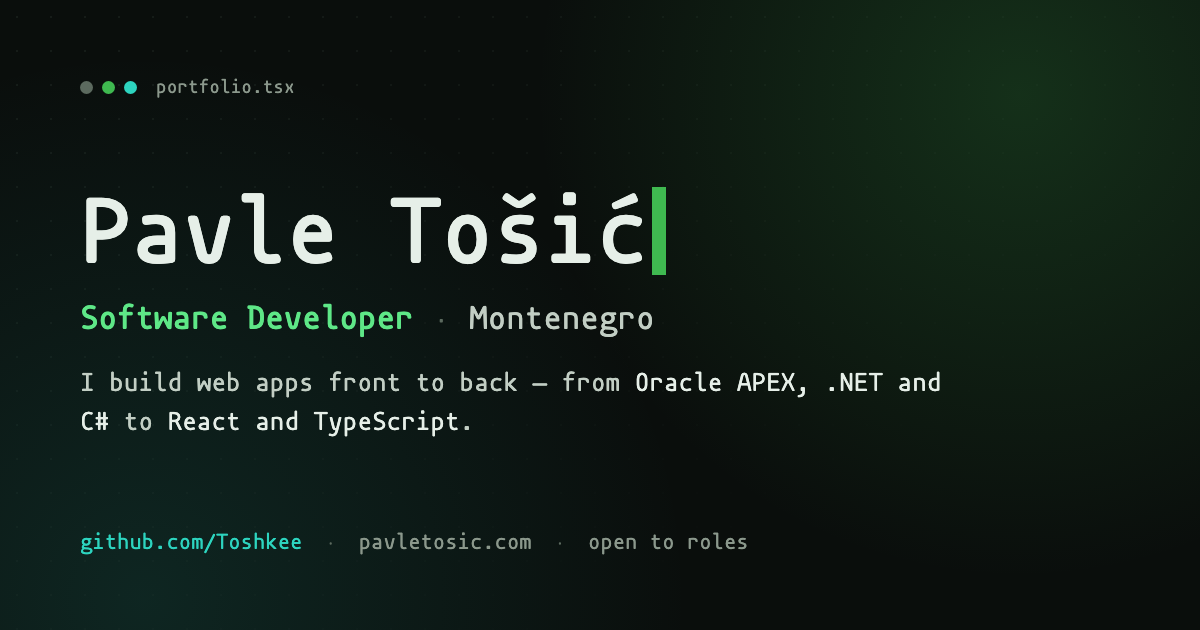
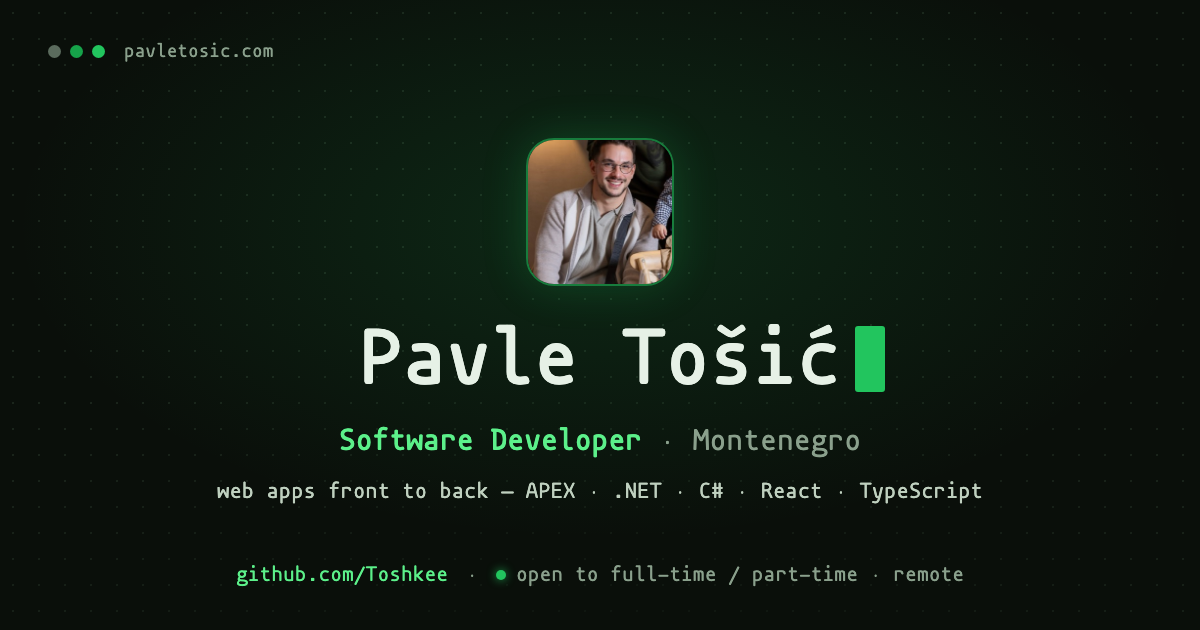
photo

diff --git a/src/app/page.tsx b/src/app/page.tsx
@@ -17,8 +17,6 @@ import { createPortal } from "react-dom";
 import {
   motion,
   AnimatePresence,
-  useMotionValue,
-  useSpring,
 } from "framer-motion";
 import { Icon } from "@iconify/react";
 import { SiGithub, SiGmail } from "react-icons/si";
@@ -576,38 +574,25 @@ function RevealHeading({
 }
 
 // Element that eases toward the cursor on hover.
-function Magnetic({
+// Press-scale feedback only. This replaced the magnetic cursor-pull, which
+// slid buttons out of their own glow-hover ring mid-spring — and cursor-
+// reactive motion is out anyway (same call as the spotlight grid / hover
+// zooms). Don't reintroduce the pull.
+function Tap({
   children,
   className = "",
-  strength = 0.35,
 }: {
   children: ReactNode;
   className?: string;
-  strength?: number;
 }) {
   const reduce = usePrefersReducedMotion();
-  const x = useMotionValue(0);
-  const y = useMotionValue(0);
-  const sx = useSpring(x, { stiffness: 200, damping: 14, mass: 0.4 });
-  const sy = useSpring(y, { stiffness: 200, damping: 14, mass: 0.4 });
-
   if (reduce) return <span className={className}>{children}</span>;
 
   return (
     <motion.span
       className={`inline-block ${className}`}
-      style={{ x: sx, y: sy }}
       whileTap={{ scale: 0.96 }}
       transition={{ type: "spring", stiffness: 400, damping: 25 }}
-      onMouseMove={(e) => {
-        const r = e.currentTarget.getBoundingClientRect();
-        x.set((e.clientX - (r.left + r.width / 2)) * strength);
-        y.set((e.clientY - (r.top + r.height / 2)) * strength);
-      }}
-      onMouseLeave={() => {
-        x.set(0);
-        y.set(0);
-      }}
     >
       {children}
     </motion.span>
@@ -868,22 +853,22 @@ function LeftRail({ active }: { active: string }) {
           variants={ITEM_VARIANTS}
           className="mt-7 flex flex-wrap items-center gap-3"
         >
-          <Magnetic strength={0.3}>
+          <Tap>
             <a
               href="#work"
-              className="glow-hover block rounded-full bg-accent px-5 py-2.5 text-sm font-semibold text-bg hover:bg-accent-hover"
+              className="glow-hover block rounded-full border border-line-strong px-5 py-2.5 text-sm font-medium text-ink hover:border-accent hover:text-accent-ink"
             >
               View work
             </a>
-          </Magnetic>
-          <Magnetic strength={0.3}>
+          </Tap>
+          <Tap>
             <a
               href="#contact"
               className="glow-hover block rounded-full border border-line-strong px-5 py-2.5 text-sm font-medium text-ink hover:border-accent hover:text-accent-ink"
             >
               Get in touch
             </a>
-          </Magnetic>
+          </Tap>
           <a
             href={RESUME}
             download
@@ -1743,21 +1728,6 @@ const Contact = memo(function Contact() {
     }
   };
 
-  const channels = [
-    {
-      Icon: SiGithub,
-      label: "GitHub",
-      value: "github.com/Toshkee",
-      href: SOCIAL.github,
-    },
-    {
-      Icon: FaLinkedin,
-      label: "LinkedIn",
-      value: "in/tosiicp",
-      href: SOCIAL.linkedin,
-    },
-  ];
-
   const copyGlyph = (
     <svg
       viewBox="0 0 24 24"
@@ -1805,111 +1775,158 @@ const Contact = memo(function Contact() {
         text="Let's build something."
         className="mt-5 text-3xl font-bold text-ink sm:text-4xl lg:text-5xl"
       />
-      <Reveal delay={0.1}>
-        <p className="mt-5 max-w-[60ch] text-base leading-[1.7] text-body">
-          Open to full-time or part-time, remote. The fastest way to reach me is
-          email — I usually reply within a day.
-        </p>
-      </Reveal>
-
-      <div className="mt-12 grid items-start gap-12 lg:grid-cols-[1.15fr_0.85fr] lg:gap-16">
-        {/* Primary: the email, copyable, with one clear send CTA. */}
-        <Reveal delay={0.15}>
-          <div>
-            <div className="font-mono text-xs text-muted">drop me a line</div>
-            <div className="mt-4 flex flex-wrap items-center gap-x-4 gap-y-3">
-              <a
-                href={`mailto:${SOCIAL.email}`}
-                className="link-underline font-mono text-xl font-medium text-accent-ink sm:text-2xl"
-              >
-                {SOCIAL.email}
-              </a>
-              <motion.button
-                type="button"
-                onClick={copyEmail}
-                aria-label="Copy email address"
-                whileTap={reduce ? undefined : { scale: 0.95 }}
-                transition={{ type: "spring", stiffness: 400, damping: 25 }}
-                className="glow-hover inline-flex w-[5.4rem] shrink-0 items-center justify-center gap-1.5 rounded-lg border border-line bg-bg/40 px-3 py-1.5 font-mono text-xs font-medium text-muted hover:border-accent/60 hover:text-ink"
-              >
-                {reduce ? (
-                  <span
-                    className={`inline-flex items-center gap-1.5 ${copied ? "text-accent-ink" : ""}`}
-                  >
-                    {copied ? checkGlyph : copyGlyph}
-                    {copied ? "copied" : "copy"}
-                  </span>
-                ) : (
-                  <AnimatePresence mode="wait" initial={false}>
-                    <motion.span
-                      key={copied ? "done" : "idle"}
-                      initial={{ opacity: 0, scale: 0.85 }}
-                      animate={{ opacity: 1, scale: 1 }}
-                      exit={{ opacity: 0 }}
-                      transition={{ duration: 0.16, ease: EASE }}
+      {/* The payoff of the `./contact.sh` kicker: the section reads as the
+          script's OUTPUT — one keyed line per channel, straight on the stage.
+          Lines reveal in sequence (no per-char typing — that's banned on page
+          text; the stagger alone reads as a script printing). */}
+      <div className="mt-10 max-w-2xl">
+        <ul className="divide-y divide-line/50">
+          <li>
+            <Reveal delay={0.12}>
+              <div className="flex flex-wrap items-center gap-x-4 gap-y-2 px-2 py-4 sm:px-3">
+                <span className="w-20 shrink-0 font-mono text-xs text-faint">
+                  email
+                </span>
+                <a
+                  href={`mailto:${SOCIAL.email}`}
+                  className="link-underline font-mono text-base font-medium text-accent-ink sm:text-lg"
+                >
+                  {SOCIAL.email}
+                </a>
+                <motion.button
+                  type="button"
+                  onClick={copyEmail}
+                  aria-label="Copy email address"
+                  whileTap={reduce ? undefined : { scale: 0.95 }}
+                  transition={{ type: "spring", stiffness: 400, damping: 25 }}
+                  className="glow-hover inline-flex w-[5.4rem] shrink-0 items-center justify-center gap-1.5 rounded-lg border border-line bg-bg/40 px-3 py-1.5 font-mono text-xs font-medium text-muted hover:border-accent/60 hover:text-ink"
+                >
+                  {reduce ? (
+                    <span
                       className={`inline-flex items-center gap-1.5 ${copied ? "text-accent-ink" : ""}`}
                     >
                       {copied ? checkGlyph : copyGlyph}
                       {copied ? "copied" : "copy"}
-                    </motion.span>
-                  </AnimatePresence>
-                )}
-              </motion.button>
-            </div>
+                    </span>
+                  ) : (
+                    <AnimatePresence mode="wait" initial={false}>
+                      <motion.span
+                        key={copied ? "done" : "idle"}
+                        initial={{ opacity: 0, scale: 0.85 }}
+                        animate={{ opacity: 1, scale: 1 }}
+                        exit={{ opacity: 0 }}
+                        transition={{ duration: 0.16, ease: EASE }}
+                        className={`inline-flex items-center gap-1.5 ${copied ? "text-accent-ink" : ""}`}
+                      >
+                        {copied ? checkGlyph : copyGlyph}
+                        {copied ? "copied" : "copy"}
+                      </motion.span>
+                    </AnimatePresence>
+                  )}
+                </motion.button>
+              </div>
+            </Reveal>
             <span aria-live="polite" className="sr-only">
               {copied ? "Email address copied to clipboard" : ""}
             </span>
-            <div className="mt-7 flex flex-wrap items-center gap-4">
-              <Magnetic strength={0.3}>
-                <a
-                  href={`mailto:${SOCIAL.email}`}
-                  className="glow-hover inline-flex items-center gap-2 rounded-full bg-accent px-7 py-3.5 text-sm font-semibold text-bg hover:bg-accent-hover"
+          </li>
+          <li>
+            <Reveal delay={0.17}>
+              <a
+                href={SOCIAL.github}
+                target="_blank"
+                rel="noopener noreferrer"
+                className="group flex flex-wrap items-center gap-x-4 px-2 py-4 transition-colors hover:bg-accent-soft sm:px-3"
+              >
+                <span className="w-20 shrink-0 font-mono text-xs text-faint">
+                  github
+                </span>
+                <span className="font-mono text-sm text-body transition-colors group-hover:text-ink">
+                  github.com/Toshkee
+                </span>
+                <span
+                  className="ml-auto text-muted transition-transform duration-300 group-hover:translate-x-0.5 group-hover:text-accent-ink"
+                  aria-hidden
                 >
-                  <SiGmail aria-hidden /> Email me
-                </a>
-              </Magnetic>
+                  ↗
+                </span>
+              </a>
+            </Reveal>
+          </li>
+          <li>
+            <Reveal delay={0.22}>
+              <a
+                href={SOCIAL.linkedin}
+                target="_blank"
+                rel="noopener noreferrer"
+                className="group flex flex-wrap items-center gap-x-4 px-2 py-4 transition-colors hover:bg-accent-soft sm:px-3"
+              >
+                <span className="w-20 shrink-0 font-mono text-xs text-faint">
+                  linkedin
+                </span>
+                <span className="font-mono text-sm text-body transition-colors group-hover:text-ink">
+                  in/tosiicp
+                </span>
+                <span
+                  className="ml-auto text-muted transition-transform duration-300 group-hover:translate-x-0.5 group-hover:text-accent-ink"
+                  aria-hidden
+                >
+                  ↗
+                </span>
+              </a>
+            </Reveal>
+          </li>
+          <li>
+            <Reveal delay={0.27}>
               <a
                 href={RESUME}
                 download
-                className="link-underline inline-flex items-center gap-1.5 text-sm font-medium text-muted transition-colors hover:text-accent-ink"
+                className="group flex flex-wrap items-center gap-x-4 px-2 py-4 transition-colors hover:bg-accent-soft sm:px-3"
               >
-                Download CV <span aria-hidden>↓</span>
+                <span className="w-20 shrink-0 font-mono text-xs text-faint">
+                  cv
+                </span>
+                <span className="font-mono text-sm text-body transition-colors group-hover:text-ink">
+                  pavle-tosic-cv.pdf
+                </span>
+                <span
+                  className="ml-auto text-muted transition-transform duration-300 group-hover:translate-y-0.5 group-hover:text-accent-ink"
+                  aria-hidden
+                >
+                  ↓
+                </span>
               </a>
-            </div>
+            </Reveal>
+          </li>
+          <li>
+            <Reveal delay={0.32}>
+              <div className="flex flex-wrap items-center gap-x-4 px-2 py-4 sm:px-3">
+                <span className="w-20 shrink-0 font-mono text-xs text-faint">
+                  reply
+                </span>
+                <span className="font-mono text-sm text-body">
+                  usually within 24h
+                </span>
+              </div>
+            </Reveal>
+          </li>
+        </ul>
+
+        <Reveal delay={0.4}>
+          <div className="mt-5 px-2 font-mono text-xs text-faint sm:px-3">
+            <span className="text-accent">✓</span> exit 0
           </div>
         </Reveal>
 
-        {/* Channels as a divided list — straight on the stage, no card. */}
-        <Reveal delay={0.2}>
-          <ul className="divide-y divide-line/60">
-            {channels.map(({ Icon: I, label, value, href }) => (
-              <li key={label}>
-                <a
-                  href={href}
-                  target="_blank"
-                  rel="noopener noreferrer"
-                  className="group flex items-center gap-4 rounded-xl px-2 py-4 transition-colors hover:bg-accent-soft sm:px-4"
-                >
-                  <I
-                    className="shrink-0 text-xl text-muted transition-colors group-hover:text-accent-ink"
-                    aria-hidden
-                  />
-                  <div className="min-w-0">
-                    <div className="text-sm font-medium text-ink">{label}</div>
-                    <div className="truncate font-mono text-xs text-muted">
-                      {value}
-                    </div>
-                  </div>
-                  <span
-                    className="ml-auto text-muted transition-transform duration-300 group-hover:translate-x-0.5 group-hover:text-accent-ink"
-                    aria-hidden
-                  >
-                    ↗
-                  </span>
-                </a>
-              </li>
-            ))}
-          </ul>
+        <Reveal delay={0.46} className="mt-10">
+          <Tap>
+            <a
+              href={`mailto:${SOCIAL.email}`}
+              className="glow-hover inline-flex items-center gap-2 rounded-full border border-line-strong px-5 py-2.5 text-sm font-medium text-ink hover:border-accent hover:text-accent-ink"
+            >
+              <SiGmail aria-hidden /> Email me
+            </a>
+          </Tap>
         </Reveal>
       </div>
     </section>

diff --git a/src/app/layout.tsx b/src/app/layout.tsx
@@ -36,7 +36,9 @@ export const metadata: Metadata = {
     siteName: "Pavle Tošić",
     images: [
       {
-        url: "/og.png",
+        // ?v=2 busts social scrapers' preview caches (WhatsApp/Telegram/X hold
+        // og:images for weeks keyed by URL) — bump it whenever og.png changes.
+        url: "/og.png?v=2",
         width: 1200,
         height: 630,
         alt: "Pavle Tošić — Software Developer",
@@ -48,7 +50,7 @@ export const metadata: Metadata = {
     card: "summary_large_image",
     title: "Pavle Tošić — Software Developer",
     description: DESCRIPTION,
-    images: ["/og.png"],
+    images: ["/og.png?v=2"],
   },
 };
 
